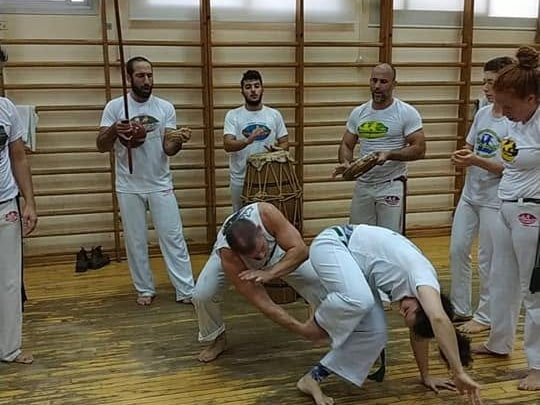
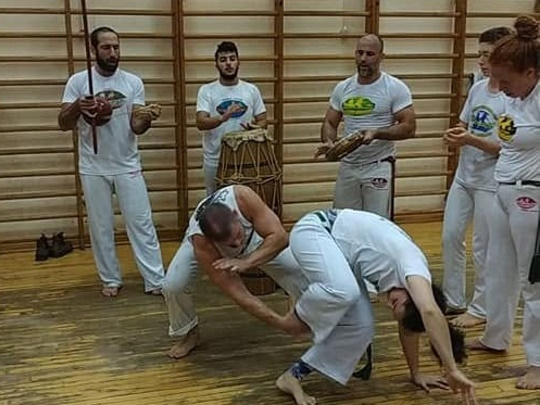
Add an option to hide a songe (hidden: true)

diff --git a/src/content.config.ts b/src/content.config.ts
@@ -17,6 +17,8 @@ const songs = defineCollection({
         'creation-time': z.iso.datetime({ offset: true }),
         /** First = main title; the rest are other names the song is known by (all searchable). */
         titles: z.array(z.string().min(1)).min(1),
+        /** Omit this song from the home-page song list and its filters. */
+        hidden: z.boolean().default(false),
         tags: z.array(z.enum(TAG_IDS)).default([]),
         /** The song's picture, as uploaded. */
         image: image().optional(),
